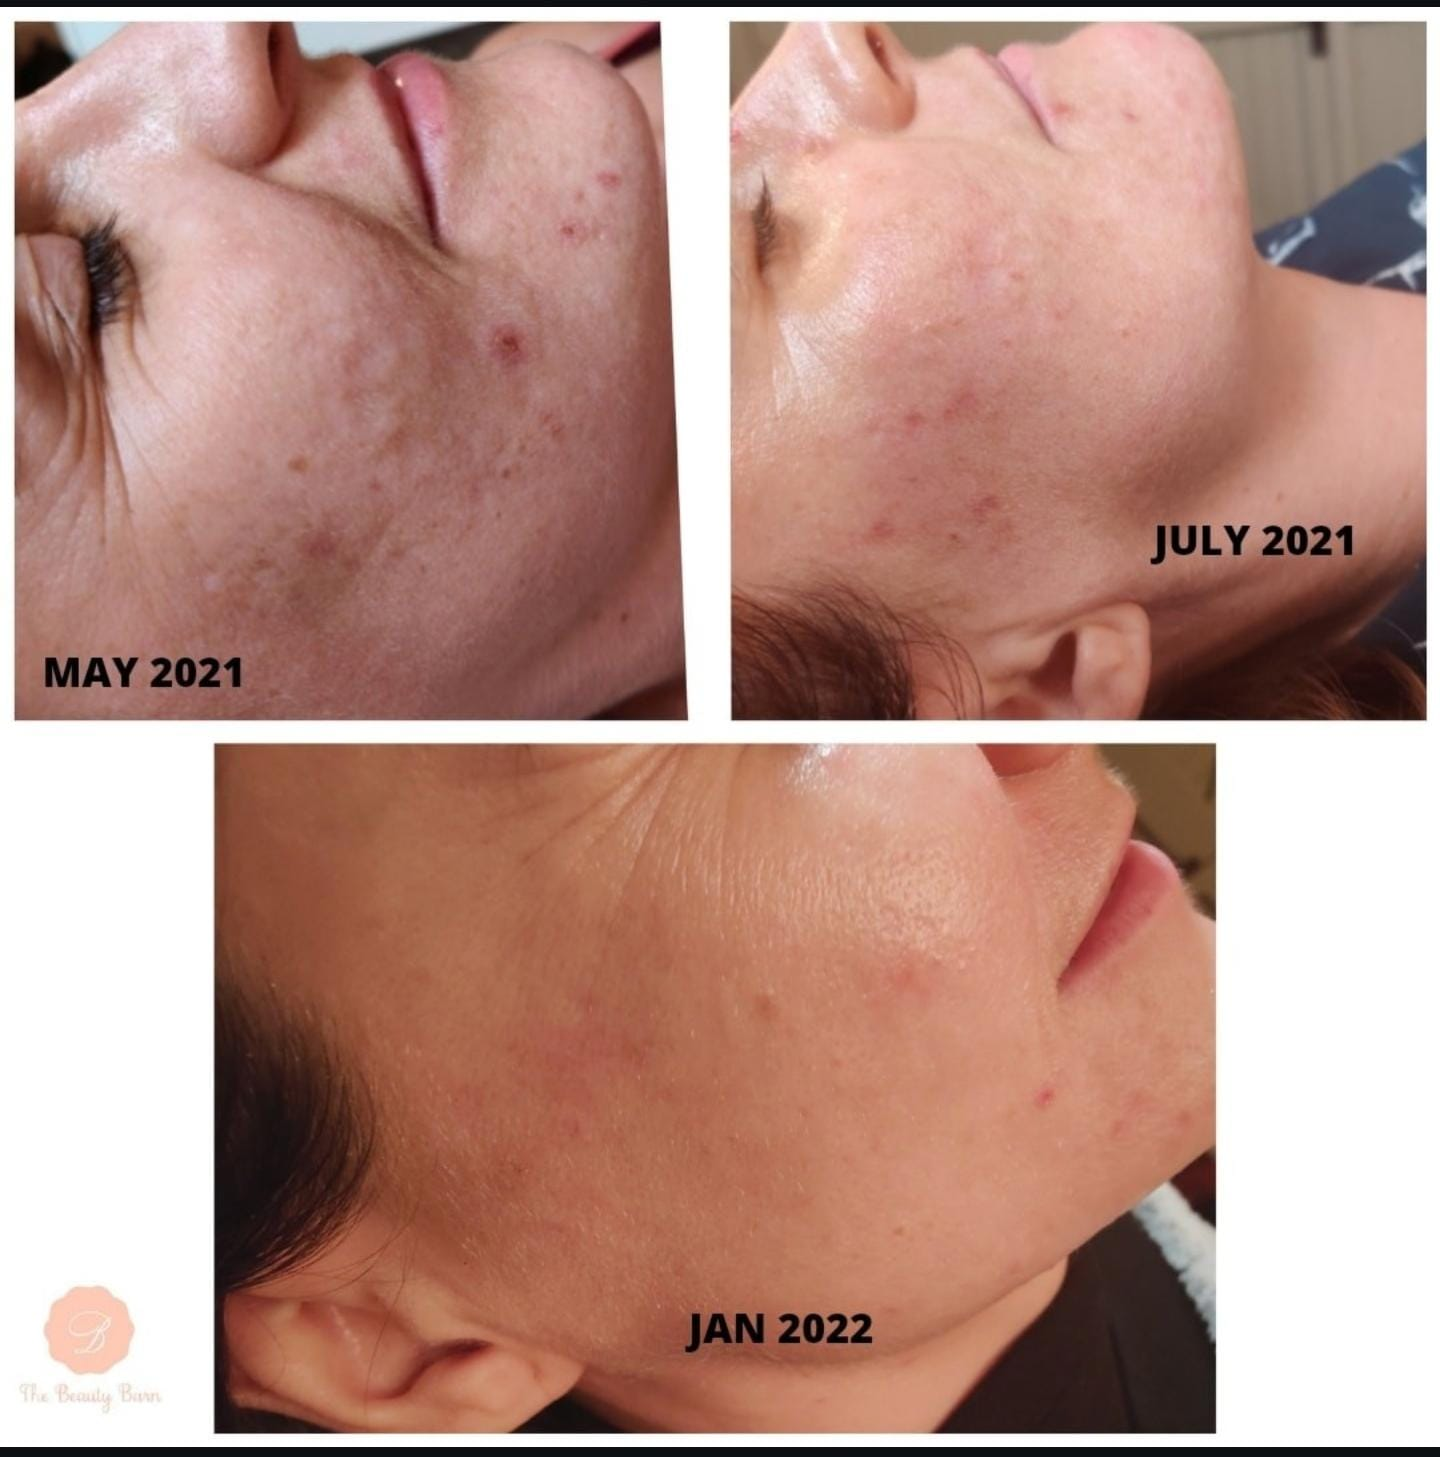
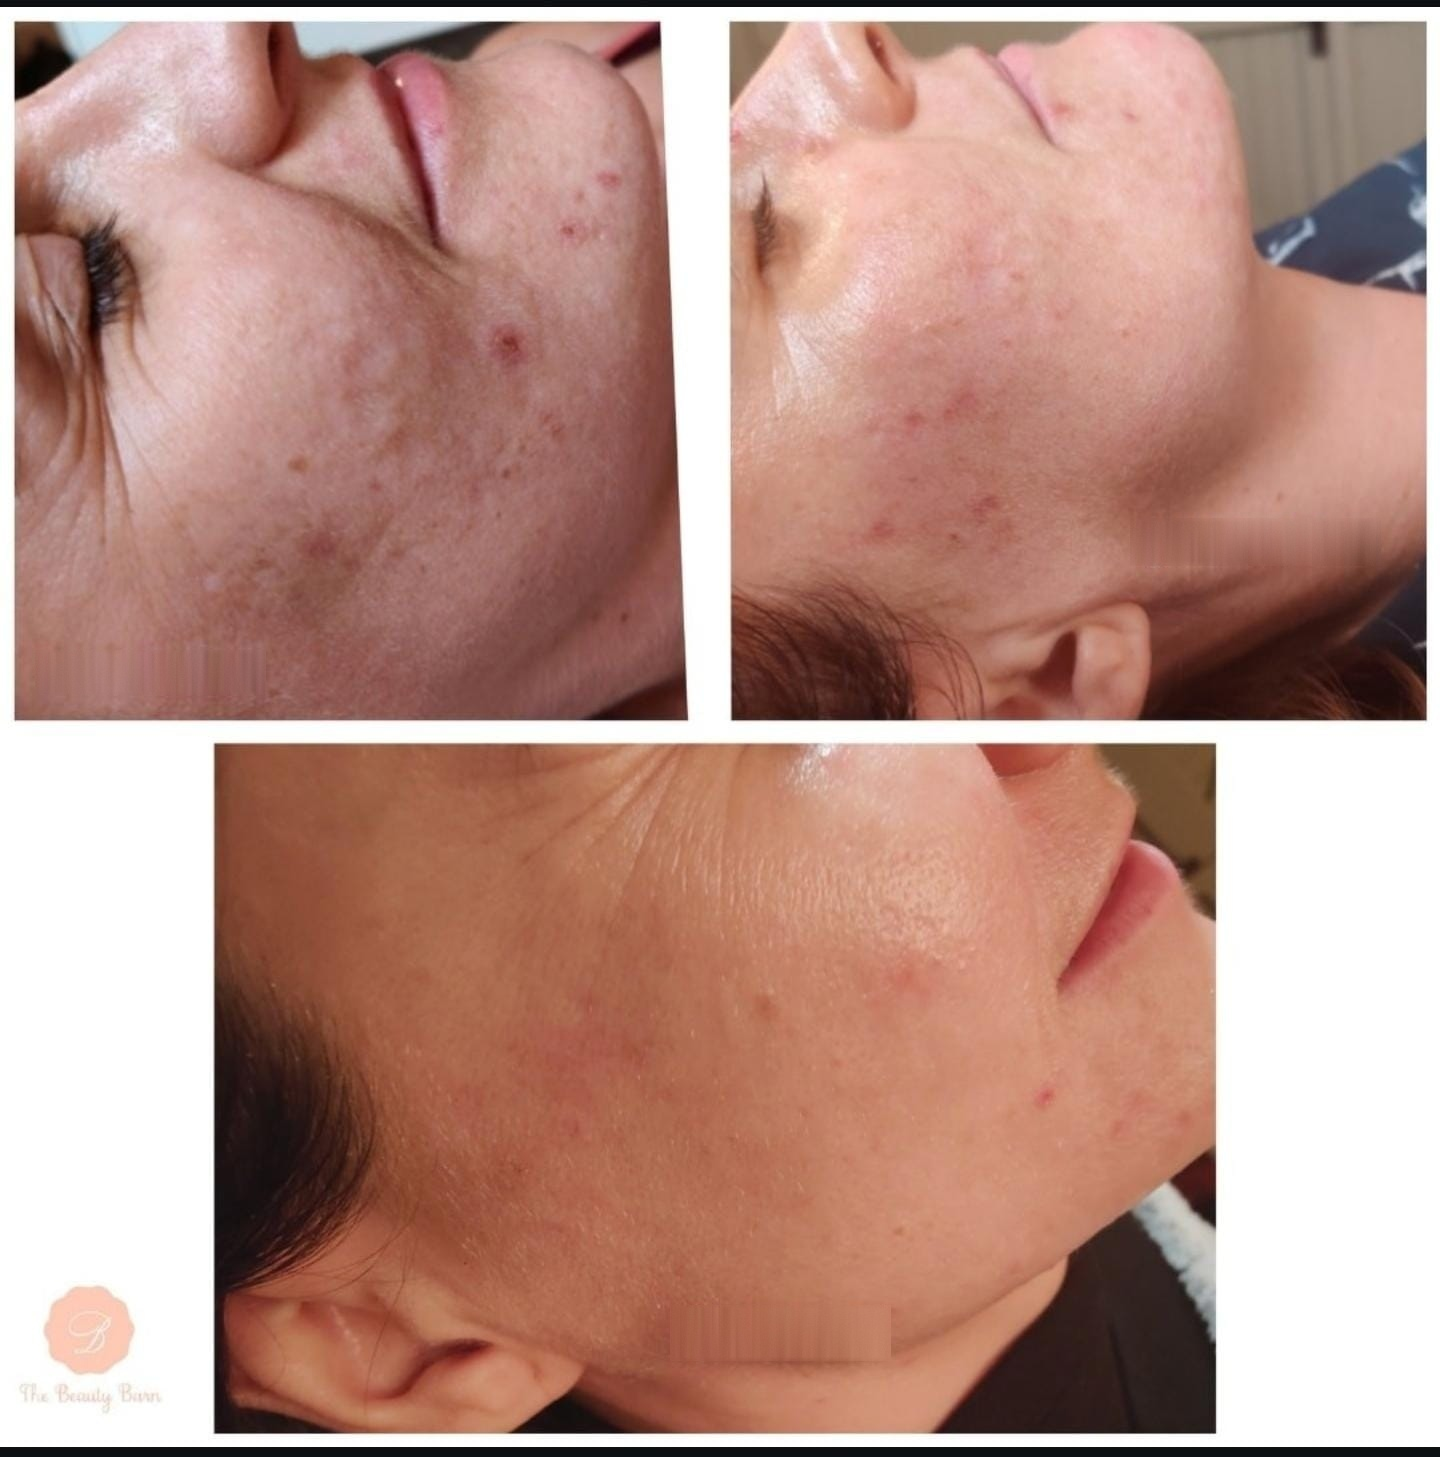
update: facial page bespoke 60m facial case study, remove dates from acne peels image, fix text contrast over photos

Changed region(s): [[0.7812, 0.3397, 0.9375, 0.4015], [0.0312, 0.4324, 0.1875, 0.4942], [0.4688, 0.8957, 0.625, 0.9266]]

diff --git a/src/app/treatments/facials/page.tsx b/src/app/treatments/facials/page.tsx
@@ -42,10 +42,10 @@ export default function FacialsPage() {
               sizes="(max-width: 768px) 100vw, 50vw"
               priority
             />
-            <div className="absolute inset-0 bg-gradient-to-t from-black/70 via-black/20 to-transparent" />
+            <div className="absolute inset-0 bg-gradient-to-t from-black/85 via-black/30 to-transparent" />
             <div className="absolute bottom-4 left-4 text-white">
-              <span className="text-[10px] uppercase font-bold tracking-widest text-bronze-300 block">The Beauty Barn Sanctuary</span>
-              <p className="font-serif text-base font-medium">The Skin Hub Treatment Suite</p>
+              <span className="text-[11px] uppercase font-bold tracking-widest text-amber-300 block drop-shadow-sm">The Beauty Barn Sanctuary</span>
+              <p className="font-serif text-lg font-semibold text-white drop-shadow">The Skin Hub Treatment Suite</p>
             </div>
           </div>
 
@@ -60,10 +60,10 @@ export default function FacialsPage() {
               playsInline
               className="w-full h-full object-cover group-hover:scale-105 transition duration-500 opacity-90"
             />
-            <div className="absolute inset-0 bg-gradient-to-t from-black/60 via-transparent to-transparent pointer-events-none" />
+            <div className="absolute inset-0 bg-gradient-to-t from-black/85 via-black/30 to-transparent pointer-events-none" />
             <div className="absolute bottom-4 left-4 text-white pointer-events-none">
-              <span className="text-[10px] uppercase font-bold tracking-widest text-bronze-300 block">Lymphatic Drainage</span>
-              <p className="font-serif text-base font-medium">Million Dollar Facial Movements</p>
+              <span className="text-[11px] uppercase font-bold tracking-widest text-amber-300 block drop-shadow-sm">Lymphatic Drainage</span>
+              <p className="font-serif text-lg font-semibold text-white drop-shadow">Million Dollar Facial Movements</p>
             </div>
           </div>
         </div>
@@ -146,40 +146,40 @@ export default function FacialsPage() {
         </div>
 
         <div className="grid grid-cols-1 md:grid-cols-2 lg:grid-cols-4 gap-6">
-          {/* CASE 1: MICRONEEDLING ACNE SCARRING */}
+          {/* CASE 1: BESPOKE FACIAL 60 MINS */}
           <div className="bg-white rounded-3xl overflow-hidden border border-cream-300 shadow-sm hover:shadow-md transition flex flex-col justify-between">
             <div>
               <div className="relative aspect-square w-full bg-charcoal-900 overflow-hidden">
                 <Image
                   src="/images/treatments/microneedling-before-after.jpg"
-                  alt="Acne Scarring Before and After Microneedling at The Beauty Barn Leicester"
+                  alt="Bespoke Facial Before and After at The Beauty Barn Leicester"
                   fill
                   className="object-cover"
                   sizes="(max-width: 768px) 100vw, (max-width: 1200px) 50vw, 25vw"
                 />
-                <div className="absolute top-3 left-3 px-2.5 py-1 rounded-full bg-black/70 backdrop-blur-sm text-[10px] font-semibold text-white uppercase tracking-wider">
-                  Top: Before • Bottom: After
+                <div className="absolute top-3 left-3 px-3 py-1 rounded-full bg-black/85 backdrop-blur-md text-[11px] font-bold text-white uppercase tracking-wider shadow-md">
+                  Before & After
                 </div>
               </div>
               <div className="p-6 space-y-2">
                 <span className="text-[11px] font-bold text-bronze-600 uppercase tracking-wider block">
-                  Microneedling & CIT
+                  Bespoke Facial (60 mins)
                 </span>
                 <h3 className="font-serif text-lg font-semibold text-sage-900">
-                  Acne Scarring & Texture Remodeling
+                  Custom Multi-Method Facial
                 </h3>
-                <p className="text-xs text-charcoal-800/75 leading-relaxed">
-                  Notice the visible reduction in deep post-acne pitting, smoothed skin texture, refined pores, and healthy new collagen generation across the jawline and cheek.
+                <p className="text-xs text-charcoal-800/85 leading-relaxed">
+                  A bespoke 60-minute facial combining tailored clinical methods — including microneedling, dermaplaning, LED light therapy, and a soothing custom hydrojelly mask — leaving skin visibly smoother, clearer, and deeply rejuvenated.
                 </p>
               </div>
             </div>
 
             <div className="p-6 pt-0">
               <button
-                onClick={() => openFresha('https://www.fresha.com/a/the-beauty-barn-leicester-leicester-beeby-road-x4x1h429/booking?offerItems=sv%3A7386877', 'The Microneedling Collagen Induction Facial')}
-                className="w-full py-2.5 rounded-xl bg-sage-800 hover:bg-sage-900 text-cream-50 text-xs font-semibold uppercase tracking-wider transition"
+                onClick={() => openFresha('https://www.fresha.com/a/the-beauty-barn-leicester-leicester-beeby-road-x4x1h429/booking?offerItems=sv%3A8493168', 'The Beauty Barn Bespoke Facial')}
+                className="w-full py-2.5 rounded-xl bg-sage-800 hover:bg-sage-900 text-cream-50 text-xs font-semibold uppercase tracking-wider transition shadow-sm"
               >
-                Book Microneedling (£90)
+                Book Bespoke Facial (£100)
               </button>
             </div>
           </div>
@@ -195,7 +195,7 @@ export default function FacialsPage() {
                   className="object-contain bg-white"
                   sizes="(max-width: 768px) 100vw, (max-width: 1200px) 50vw, 25vw"
                 />
-                <div className="absolute top-3 left-3 px-2.5 py-1 rounded-full bg-black/70 backdrop-blur-sm text-[10px] font-semibold text-white uppercase tracking-wider">
+                <div className="absolute top-3 left-3 px-3 py-1 rounded-full bg-black/85 backdrop-blur-md text-[11px] font-bold text-white uppercase tracking-wider shadow-md">
                   Clinical Case Study
                 </div>
               </div>
@@ -206,7 +206,7 @@ export default function FacialsPage() {
                 <h3 className="font-serif text-lg font-semibold text-sage-900">
                   Pigmentation & Sun Damage Correction
                 </h3>
-                <p className="text-xs text-charcoal-800/75 leading-relaxed">
+                <p className="text-xs text-charcoal-800/85 leading-relaxed">
                   Noticeable lightening and fading of sun damage and stubborn hyperpigmentation across the cheeks, alongside visibly lifted contours, restored radiance, and an even complexion.
                 </p>
               </div>
@@ -215,37 +215,37 @@ export default function FacialsPage() {
             <div className="p-6 pt-0">
               <button
                 onClick={() => openFresha('https://www.fresha.com/a/the-beauty-barn-leicester-leicester-beeby-road-x4x1h429/booking?offerItems=sv%3A7386877', 'The Microneedling Collagen Induction Facial')}
-                className="w-full py-2.5 rounded-xl bg-sage-800 hover:bg-sage-900 text-cream-50 text-xs font-semibold uppercase tracking-wider transition"
+                className="w-full py-2.5 rounded-xl bg-sage-800 hover:bg-sage-900 text-cream-50 text-xs font-semibold uppercase tracking-wider transition shadow-sm"
               >
                 Book Microneedling (£90)
               </button>
             </div>
           </div>
 
-          {/* CASE 3: 8-MONTH BREAKOUT CLEARING & HEALTH JOURNEY */}
+          {/* CASE 3: FACIAL PEELS FOR ACTIVE ACNE */}
           <div className="bg-white rounded-3xl overflow-hidden border border-cream-300 shadow-sm hover:shadow-md transition flex flex-col justify-between">
             <div>
               <div className="relative aspect-square w-full bg-charcoal-900 overflow-hidden">
                 <Image
                   src="/images/treatments/facials-progression-timeline.jpg"
-                  alt="8-Month Breakout Clearing with Chemical Peels and Microneedling at The Beauty Barn"
+                  alt="Example of Facial Peels for Active Acne at The Beauty Barn Leicester"
                   fill
                   className="object-cover"
                   sizes="(max-width: 768px) 100vw, (max-width: 1200px) 50vw, 25vw"
                 />
-                <div className="absolute top-3 left-3 px-2.5 py-1 rounded-full bg-black/70 backdrop-blur-sm text-[10px] font-semibold text-white uppercase tracking-wider">
-                  8-Month Transformation
+                <div className="absolute top-3 left-3 px-3 py-1 rounded-full bg-black/85 backdrop-blur-md text-[11px] font-bold text-white uppercase tracking-wider shadow-md">
+                  Active Acne Peels
                 </div>
               </div>
               <div className="p-6 space-y-2">
                 <span className="text-[11px] font-bold text-bronze-600 uppercase tracking-wider block">
-                  Chemical Peels & Microneedling
+                  Facial Peels
                 </span>
                 <h3 className="font-serif text-lg font-semibold text-sage-900">
-                  Breakout Clearing & Barrier Health
+                  Example of Facial Peels for Active Acne
                 </h3>
-                <p className="text-xs text-charcoal-800/75 leading-relaxed">
-                  A consistent 8-month course combining targeted chemical peels and microneedling — sustained clearance of active breakouts and congestion, calming of redness, and long-term epidermal barrier repair.
+                <p className="text-xs text-charcoal-800/85 leading-relaxed">
+                  A targeted clinical course of facial peels to clear active breakouts, dissolve deep congestion, calm persistent inflammation, and restore skin barrier balance.
                 </p>
               </div>
             </div>
@@ -253,9 +253,9 @@ export default function FacialsPage() {
             <div className="p-6 pt-0">
               <button
                 onClick={() => openFresha('https://www.fresha.com/a/the-beauty-barn-leicester-leicester-beeby-road-x4x1h429/booking?offerItems=sv%3A8493168', 'The Beauty Barn Bespoke Facial')}
-                className="w-full py-2.5 rounded-xl bg-sage-800 hover:bg-sage-900 text-cream-50 text-xs font-semibold uppercase tracking-wider transition"
+                className="w-full py-2.5 rounded-xl bg-sage-800 hover:bg-sage-900 text-cream-50 text-xs font-semibold uppercase tracking-wider transition shadow-sm"
               >
-                Book Bespoke Facial (From £65)
+                Book Facial Peels (From £65)
               </button>
             </div>
           </div>
@@ -271,8 +271,8 @@ export default function FacialsPage() {
                   className="object-cover object-center"
                   sizes="(max-width: 768px) 100vw, (max-width: 1200px) 50vw, 25vw"
                 />
-                <div className="absolute top-3 left-3 px-2.5 py-1 rounded-full bg-black/70 backdrop-blur-sm text-[10px] font-semibold text-bronze-300 uppercase tracking-wider">
-                  Real Client Experience
+                <div className="absolute top-3 left-3 px-3 py-1 rounded-full bg-black/85 backdrop-blur-md text-[11px] font-bold text-white uppercase tracking-wider shadow-md">
+                  Real Client Glow
                 </div>
               </div>
               <div className="p-6 space-y-2">
@@ -282,7 +282,7 @@ export default function FacialsPage() {
                 <h3 className="font-serif text-lg font-semibold text-sage-900">
                   &ldquo;I Feel A Million Dollars&rdquo; Glow
                 </h3>
-                <p className="text-xs text-charcoal-800/75 leading-relaxed">
+                <p className="text-xs text-charcoal-800/85 leading-relaxed">
                   Instant post-treatment luminosity, plumped deep dermal hydration, and a super-smooth glass skin finish that leaves our guests glowing from the inside out.
                 </p>
               </div>
@@ -316,15 +316,15 @@ export default function FacialsPage() {
                 playsInline
                 className="w-full h-full object-cover group-hover:scale-105 transition duration-700"
               />
-              <div className="absolute inset-0 bg-gradient-to-t from-black/60 via-transparent to-transparent pointer-events-none" />
+              <div className="absolute inset-0 bg-gradient-to-t from-black/90 via-black/40 to-transparent pointer-events-none" />
               <div className="absolute bottom-4 left-4 right-4 text-white pointer-events-none">
-                <span className="text-[10px] uppercase font-bold tracking-widest text-bronze-300 block mb-0.5">
+                <span className="text-[11px] uppercase font-bold tracking-widest text-amber-300 block mb-0.5 drop-shadow-sm">
                   Post-Treatment Radiance
                 </span>
-                <p className="font-serif text-base font-semibold">
+                <p className="font-serif text-lg font-semibold text-white drop-shadow">
                   The Beauty Barn Bespoke Facial Glow
                 </p>
-                <p className="text-xs text-cream-100/90 mt-0.5">
+                <p className="text-xs text-white/95 mt-0.5 font-medium drop-shadow-sm">
                   Unfiltered, healthy glow following a tailored clinical and botanical facial in our Scraptoft sanctuary.
                 </p>
               </div>
@@ -410,7 +410,7 @@ export default function FacialsPage() {
                 className="object-cover group-hover:scale-105 transition duration-500"
                 sizes="(max-width: 768px) 100vw, 33vw"
               />
-              <div className="absolute top-3 left-3 px-3 py-1 rounded-full bg-black/70 backdrop-blur-md text-[10px] font-semibold text-bronze-300 uppercase tracking-wider shadow">
+              <div className="absolute top-3 left-3 px-3 py-1 rounded-full bg-black/85 backdrop-blur-md text-[11px] font-bold text-white uppercase tracking-wider shadow-md">
                 Clinical Phototherapy
               </div>
             </div>
@@ -434,7 +434,7 @@ export default function FacialsPage() {
                 className="object-cover group-hover:scale-105 transition duration-500"
                 sizes="(max-width: 768px) 100vw, 33vw"
               />
-              <div className="absolute top-3 left-3 px-3 py-1 rounded-full bg-black/70 backdrop-blur-md text-[10px] font-semibold text-bronze-300 uppercase tracking-wider shadow">
+              <div className="absolute top-3 left-3 px-3 py-1 rounded-full bg-black/85 backdrop-blur-md text-[11px] font-bold text-white uppercase tracking-wider shadow-md">
                 Dedicated Room
               </div>
             </div>
@@ -446,7 +446,7 @@ export default function FacialsPage() {
                 </p>
               </div>
               <div className="pt-2 text-[11px] font-semibold text-sage-800 border-t border-cream-200">
-                100% private, 1-on-1 certified skin specialist care
+                Dedicated 1-on-1 certified skin specialist care
               </div>
             </div>
           </div>
@@ -461,7 +461,7 @@ export default function FacialsPage() {
                 className="object-cover group-hover:scale-105 transition duration-500"
                 sizes="(max-width: 768px) 100vw, 33vw"
               />
-              <div className="absolute top-3 left-3 px-3 py-1 rounded-full bg-black/70 backdrop-blur-md text-[10px] font-semibold text-bronze-300 uppercase tracking-wider shadow">
+              <div className="absolute top-3 left-3 px-3 py-1 rounded-full bg-black/85 backdrop-blur-md text-[11px] font-bold text-white uppercase tracking-wider shadow-md">
                 MEDI+ Cosmeceuticals
               </div>
             </div>
